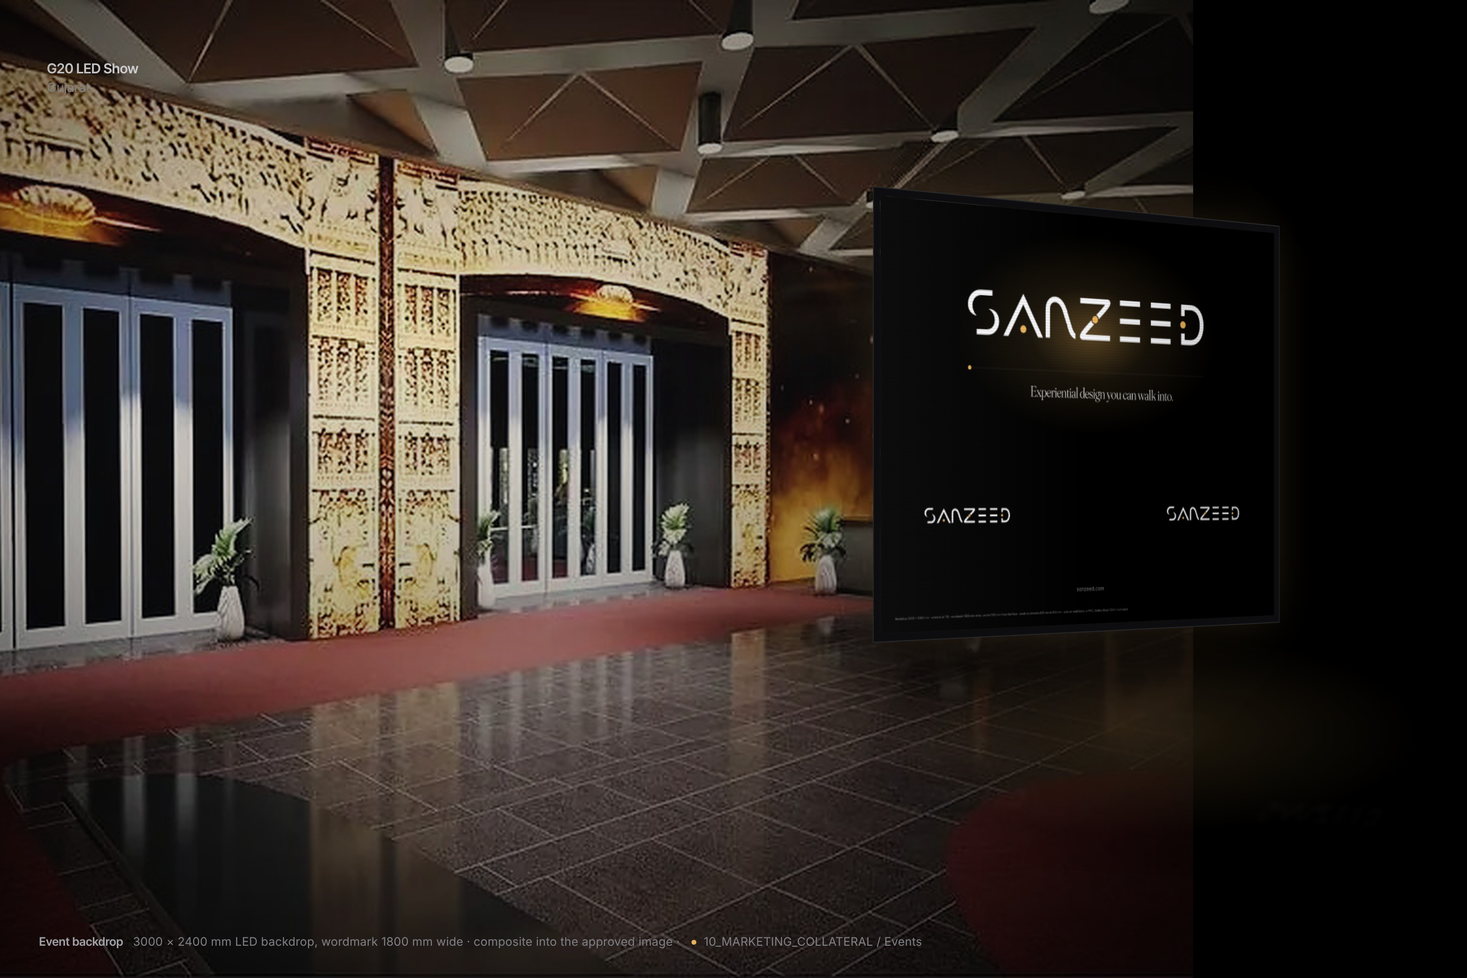
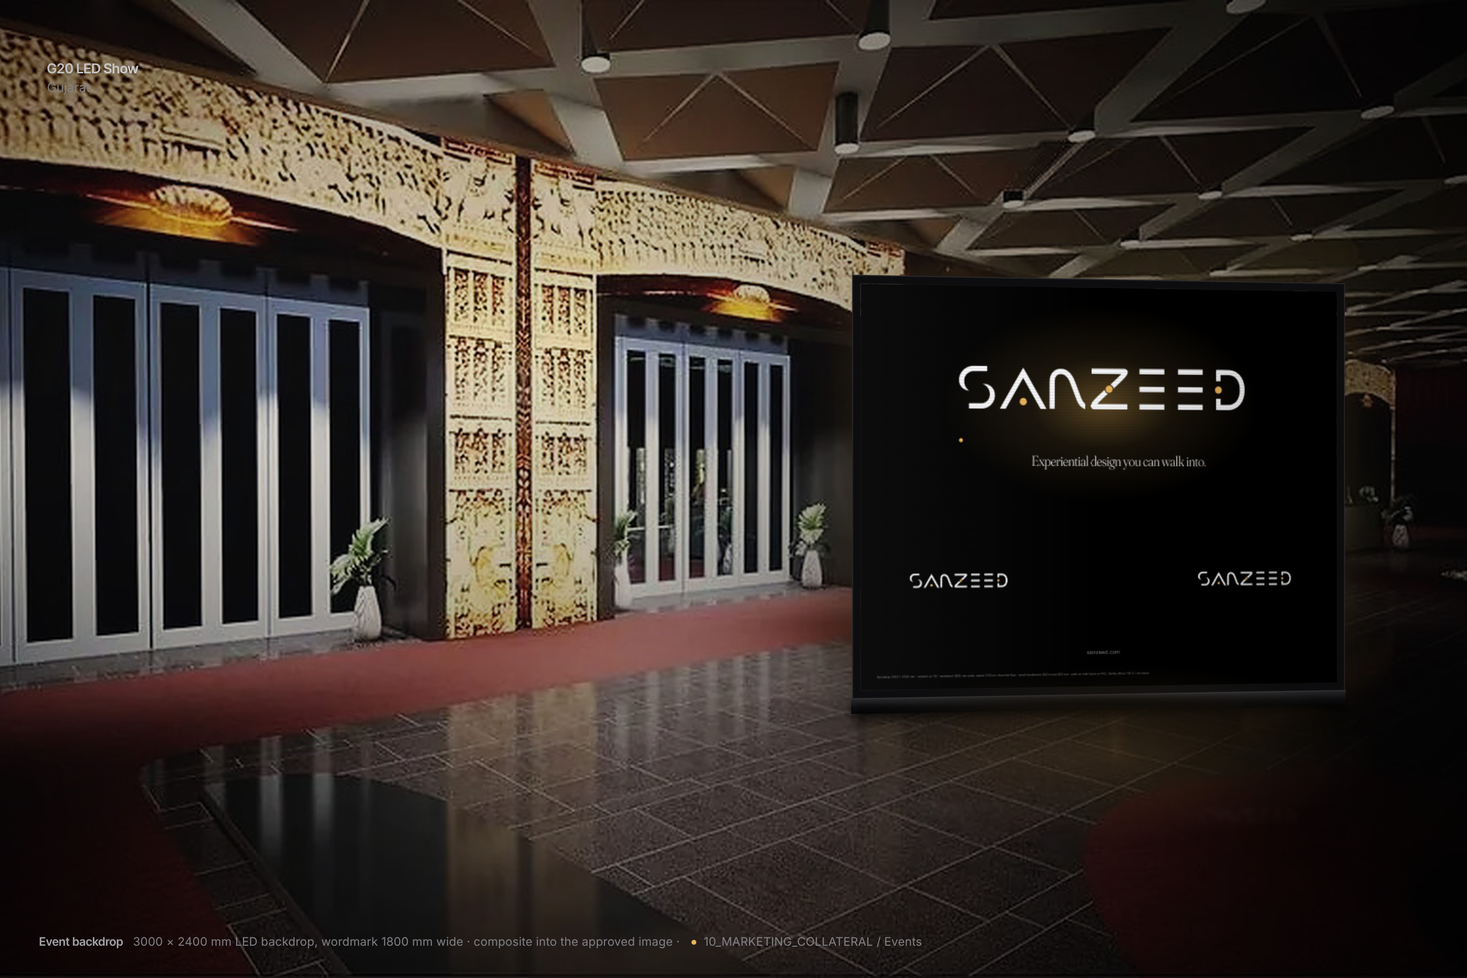
fix(mockups): photo composites fill the stage edge to edge; event backdrop re-staged
Claude-Session: https://claude.ai/code/session_017SHVVgUNEuw9kFNaSfonh1

diff --git a/BRAND_PACKAGE/13_BRAND_MOCKUPS/Marketing_Mockups/src/sanzeed-mockup--marketing-backdrop-g20-show.html b/BRAND_PACKAGE/13_BRAND_MOCKUPS/Marketing_Mockups/src/sanzeed-mockup--marketing-backdrop-g20-show.html
@@ -21,6 +21,8 @@
 .led::after { content: ""; position: absolute; inset: 0; background: repeating-linear-gradient(0deg, rgba(0,0,0,.08) 0 1px, transparent 1px 3px), linear-gradient(90deg, rgba(255,255,255,.05), rgba(0,0,0,0) 50%, rgba(0,0,0,.2)); }
 .ledframe { inset: -8px; border: 8px solid #0d0d0f; box-shadow: 0 0 0 1px #2a2a2d; }
 .glow { background: radial-gradient(50% 50% at 50% 50%, rgba(233,178,90,.14), transparent 70%); }
+.ground { background: radial-gradient(50% 50% at 50% 50%, rgba(0,0,0,.92), transparent 74%); filter: blur(4px); }
+.plinth { left: -10px; right: -10px; bottom: -24px; height: 16px; background: linear-gradient(180deg, #2a2a2d, #0d0d0f 60%, #050506); box-shadow: 0 1px 0 rgba(255,255,255,.06) inset, 0 6px 10px rgba(0,0,0,.7); }
 .label { left: 48px; top: 60px; font: 400 13px/1.5 var(--font-text); color: #A1A1A6; }
 .label b { display: block; font: 600 14px/1.4 var(--font-heading); color: #F5F5F7; }
 </style>
@@ -28,16 +30,18 @@
 <body>
 <div class="stage">
 <div class="abs" style="inset:0;background:#000"></div>
-<img class="abs" src="../../_build/plates/photo-g20-led-show.jpg" alt="G20 LED Show hall" style="left:-280px;top:0;width:1780px;height:1000px;object-fit:cover">
+<img class="abs" src="../../_build/plates/photo-g20-led-show.jpg" alt="G20 LED Show hall" style="left:-280px;top:0;width:1780px;height:1000px;max-width:none;object-fit:cover">
 <div class="abs" style="inset:0;background:linear-gradient(90deg,rgba(0,0,0,.1) 40%,rgba(0,0,0,.55) 100%),linear-gradient(180deg,rgba(0,0,0,.3),rgba(0,0,0,0) 35%,rgba(0,0,0,.5) 100%)"></div>
 <div class="abs persp" style="inset:0;perspective:1800px;perspective-origin:45% 50%">
-  <div class="abs p3d wallwrap" style="left:900px;top:200px;width:560px;height:448px;transform:rotateY(28deg)">
+  <div class="abs p3d wallwrap" style="left:880px;top:290px;width:520px;height:416px;transform:rotateY(8deg)">
     <div class="abs led" style="inset:0;background-image:url(../../../10_MARKETING_COLLATERAL/Events/sanzeed-event-backdrop--3000x2400mm-1-10.png)"></div>
     <div class="abs ledframe"></div>
+    <div class="abs plinth"></div>
   </div>
 </div>
-<div class="abs refl" style="left:860px;top:690px;width:620px;height:260px;background:url(../../../10_MARKETING_COLLATERAL/Events/sanzeed-event-backdrop--3000x2400mm-1-10.png) center bottom / 100% auto no-repeat;transform:scaleY(-1) skewX(24deg) rotate(-3deg);opacity:.16;filter:blur(3px);-webkit-mask-image:linear-gradient(0deg,rgba(0,0,0,.9),transparent 80%);mask-image:linear-gradient(0deg,rgba(0,0,0,.9),transparent 80%)"></div>
-<div class="abs glow" style="left:780px;top:600px;width:800px;height:300px"></div>
+<div class="abs ground" style="left:850px;top:704px;width:560px;height:30px"></div>
+<div class="abs refl" style="left:876px;top:724px;width:500px;height:190px;background:url(../../../10_MARKETING_COLLATERAL/Events/sanzeed-event-backdrop--3000x2400mm-1-10.png) center bottom / 100% auto no-repeat;transform:scaleY(-1) skewY(-1.2deg);opacity:.24;filter:blur(3px);-webkit-mask-image:linear-gradient(0deg,rgba(0,0,0,.9),transparent 80%);mask-image:linear-gradient(0deg,rgba(0,0,0,.9),transparent 80%)"></div>
+<div class="abs glow" style="left:740px;top:640px;width:800px;height:260px"></div>
 <div class="abs label"><b>G20 LED Show</b><span>Gujarat</span></div>
 <div class="abs vig soft"></div>
 <div class="cap"><b>Event backdrop</b>3000 × 2400 mm LED backdrop, wordmark 1800 mm wide · composite into the approved image · <span class="pt"></span>10_MARKETING_COLLATERAL / Events</div>

diff --git a/BRAND_PACKAGE/13_BRAND_MOCKUPS/Marketing_Mockups/src/sanzeed-mockup--marketing-door-plate-wayfinding-museum-wall.html b/BRAND_PACKAGE/13_BRAND_MOCKUPS/Marketing_Mockups/src/sanzeed-mockup--marketing-door-plate-wayfinding-museum-wall.html
@@ -27,7 +27,7 @@
 <body>
 <div class="stage">
 <div class="abs" style="inset:0;background:#000"></div>
-<img class="abs" src="../../_build/plates/photo-prime-minister-museum-corridor.jpg" alt="Prime Minister Museum corridor" style="left:-120px;top:0;width:1780px;height:1000px;object-fit:cover">
+<img class="abs" src="../../_build/plates/photo-prime-minister-museum-corridor.jpg" alt="Prime Minister Museum corridor" style="left:-258px;top:0;width:1780px;height:1000px;max-width:none;object-fit:cover">
 <div class="abs" style="inset:0;background:linear-gradient(90deg,rgba(0,0,0,.6) 0%,rgba(0,0,0,.25) 45%,rgba(0,0,0,.05) 100%),linear-gradient(180deg,rgba(0,0,0,.25),rgba(0,0,0,0) 30%,rgba(0,0,0,.45) 100%)"></div>
 <div class="abs persp" style="inset:0;perspective:1500px;perspective-origin:62% 50%">
   <div class="abs p3d wall" style="left:-80px;top:-300px;width:760px;height:1600px;transform:rotateY(46deg)">

diff --git a/BRAND_PACKAGE/13_BRAND_MOCKUPS/Marketing_Mockups/src/sanzeed-mockup--marketing-totem-lobby.html b/BRAND_PACKAGE/13_BRAND_MOCKUPS/Marketing_Mockups/src/sanzeed-mockup--marketing-totem-lobby.html
@@ -27,7 +27,7 @@
 <body>
 <div class="stage">
 <div class="abs" style="inset:0;background:#000"></div>
-<img class="abs" src="../../_build/plates/photo-prime-minister-museum-lobby.jpg" alt="Prime Minister Museum lobby" style="left:-140px;top:0;width:1780px;height:1000px;object-fit:cover">
+<img class="abs" src="../../_build/plates/photo-prime-minister-museum-lobby.jpg" alt="Prime Minister Museum lobby" style="left:-278px;top:0;width:1780px;height:1000px;max-width:none;object-fit:cover">
 <div class="abs" style="inset:0;background:linear-gradient(180deg,rgba(0,0,0,.35),rgba(0,0,0,.1) 40%,rgba(0,0,0,.5) 100%),radial-gradient(40% 60% at 68% 60%,rgba(0,0,0,.45),transparent 70%)"></div>
 <div class="abs persp" style="inset:0;perspective:2000px;perspective-origin:50% 45%">
   <div class="abs p3d totemwrap" style="left:880px;top:200px;width:246px;height:738px;transform:rotateY(-16deg)">

diff --git a/BRAND_PACKAGE/13_BRAND_MOCKUPS/Logo_Mockups/src/sanzeed-mockup--logo-frosted-glass-door.html b/BRAND_PACKAGE/13_BRAND_MOCKUPS/Logo_Mockups/src/sanzeed-mockup--logo-frosted-glass-door.html
@@ -31,7 +31,7 @@
 <body>
 <div class="stage">
 <div class="abs" style="inset:0;background:#0a0a0b"></div>
-<img class="abs" src="../../_build/plates/photo-prime-minister-museum-lobby.jpg" alt="" style="left:-140px;top:-40px;width:1780px;filter:blur(9px) brightness(.55) saturate(.8)">
+<img class="abs" src="../../_build/plates/photo-prime-minister-museum-lobby.jpg" alt="" style="left:-140px;top:-40px;width:1780px;max-width:none;filter:blur(9px) brightness(.55) saturate(.8)">
 <div class="abs" style="inset:0;background:linear-gradient(180deg,rgba(0,0,0,.35),rgba(0,0,0,.1) 40%,rgba(0,0,0,.55))"></div>
 <div class="abs frame" style="left:170px;top:-20px;width:1160px;height:1040px"></div>
 <div class="abs glass" style="left:200px;top:0;width:548px;height:1000px"></div>

diff --git a/BRAND_PACKAGE/13_BRAND_MOCKUPS/_build/build_mockups.py b/BRAND_PACKAGE/13_BRAND_MOCKUPS/_build/build_mockups.py
@@ -269,7 +269,7 @@ scene('logo-brass-plaque-symbol', L, 'Engraved brass plaque · the symbol', ['02
 # 05 — frosted glass door with the window vinyl
 scene('logo-frosted-glass-door', L, 'Window vinyl · wordmark on a frosted glass door', ['02 primary-wordmark--white.svg (cut vinyl)', '10 Signage window-vinyl spec (600 mm band, 1200 mm wordmark)', '00/06 Prime Minister Museum lobby (behind the glass)'], f'''
 <div class="abs" style="inset:0;background:#0a0a0b"></div>
-<img class="abs" src="{P}/photo-prime-minister-museum-lobby.jpg" alt="" style="left:-140px;top:-40px;width:1780px;filter:blur(9px) brightness(.55) saturate(.8)">
+<img class="abs" src="{P}/photo-prime-minister-museum-lobby.jpg" alt="" style="left:-140px;top:-40px;width:1780px;max-width:none;filter:blur(9px) brightness(.55) saturate(.8)">
 <div class="abs" style="inset:0;background:linear-gradient(180deg,rgba(0,0,0,.35),rgba(0,0,0,.1) 40%,rgba(0,0,0,.55))"></div>
 <div class="abs frame" style="left:170px;top:-20px;width:1160px;height:1040px"></div>
 <div class="abs glass" style="left:200px;top:0;width:548px;height:1000px"></div>
@@ -857,7 +857,7 @@ SCENES[-1]['body'] = SCENES[-1]['body'].replace(f'{P}/sanzeed-exhibition-rollup-
 # 29 — door plate + wayfinding on a museum wall (composite)
 scene('marketing-door-plate-wayfinding-museum-wall', M, 'Signage · door plate and wayfinding on a museum wall', ['10 Signage door plate 300 × 100 + arrow plate (trim crop)', '06 Prime Minister Museum corridor (approved image)'], f'''
 <div class="abs" style="inset:0;background:#000"></div>
-<img class="abs" src="{P}/photo-prime-minister-museum-corridor.jpg" alt="Prime Minister Museum corridor" style="left:-120px;top:0;width:1780px;height:1000px;object-fit:cover">
+<img class="abs" src="{P}/photo-prime-minister-museum-corridor.jpg" alt="Prime Minister Museum corridor" style="left:-258px;top:0;width:1780px;height:1000px;max-width:none;object-fit:cover">
 <div class="abs" style="inset:0;background:linear-gradient(90deg,rgba(0,0,0,.6) 0%,rgba(0,0,0,.25) 45%,rgba(0,0,0,.05) 100%),linear-gradient(180deg,rgba(0,0,0,.25),rgba(0,0,0,0) 30%,rgba(0,0,0,.45) 100%)"></div>
 <div class="abs persp" style="inset:0;perspective:1500px;perspective-origin:62% 50%">
   <div class="abs p3d wall" style="left:-80px;top:-300px;width:760px;height:1600px;transform:rotateY(46deg)">
@@ -881,7 +881,7 @@ scene('marketing-door-plate-wayfinding-museum-wall', M, 'Signage · door plate a
 # 30 — totem in a lobby (composite)
 scene('marketing-totem-lobby', M, 'Signage · totem in a museum lobby', ['10 Signage totem 600 × 1800 mm (1:10)', '00/06 Prime Minister Museum lobby (case image)'], f'''
 <div class="abs" style="inset:0;background:#000"></div>
-<img class="abs" src="{P}/photo-prime-minister-museum-lobby.jpg" alt="Prime Minister Museum lobby" style="left:-140px;top:0;width:1780px;height:1000px;object-fit:cover">
+<img class="abs" src="{P}/photo-prime-minister-museum-lobby.jpg" alt="Prime Minister Museum lobby" style="left:-278px;top:0;width:1780px;height:1000px;max-width:none;object-fit:cover">
 <div class="abs" style="inset:0;background:linear-gradient(180deg,rgba(0,0,0,.35),rgba(0,0,0,.1) 40%,rgba(0,0,0,.5) 100%),radial-gradient(40% 60% at 68% 60%,rgba(0,0,0,.45),transparent 70%)"></div>
 <div class="abs persp" style="inset:0;perspective:2000px;perspective-origin:50% 45%">
   <div class="abs p3d totemwrap" style="left:880px;top:200px;width:246px;height:738px;transform:rotateY(-16deg)">
@@ -906,16 +906,18 @@ scene('marketing-totem-lobby', M, 'Signage · totem in a museum lobby', ['10 Sig
 # 31 — backdrop at the G20-style show (composite)
 scene('marketing-backdrop-g20-show', M, 'Event backdrop · LED wall at the G20-style show', ['10 Events backdrop 3000 × 2400 mm (1:10)', '06 G20 LED Show (approved image)'], f'''
 <div class="abs" style="inset:0;background:#000"></div>
-<img class="abs" src="{P}/photo-g20-led-show.jpg" alt="G20 LED Show hall" style="left:-280px;top:0;width:1780px;height:1000px;object-fit:cover">
+<img class="abs" src="{P}/photo-g20-led-show.jpg" alt="G20 LED Show hall" style="left:-280px;top:0;width:1780px;height:1000px;max-width:none;object-fit:cover">
 <div class="abs" style="inset:0;background:linear-gradient(90deg,rgba(0,0,0,.1) 40%,rgba(0,0,0,.55) 100%),linear-gradient(180deg,rgba(0,0,0,.3),rgba(0,0,0,0) 35%,rgba(0,0,0,.5) 100%)"></div>
 <div class="abs persp" style="inset:0;perspective:1800px;perspective-origin:45% 50%">
-  <div class="abs p3d wallwrap" style="left:900px;top:200px;width:560px;height:448px;transform:rotateY(28deg)">
+  <div class="abs p3d wallwrap" style="left:880px;top:290px;width:520px;height:416px;transform:rotateY(8deg)">
     <div class="abs led" style="inset:0;background-image:url({MKT}/Events/sanzeed-event-backdrop--3000x2400mm-1-10.png)"></div>
     <div class="abs ledframe"></div>
+    <div class="abs plinth"></div>
   </div>
 </div>
-<div class="abs refl" style="left:860px;top:690px;width:620px;height:260px;background:url({MKT}/Events/sanzeed-event-backdrop--3000x2400mm-1-10.png) center bottom / 100% auto no-repeat;transform:scaleY(-1) skewX(24deg) rotate(-3deg);opacity:.16;filter:blur(3px);-webkit-mask-image:linear-gradient(0deg,rgba(0,0,0,.9),transparent 80%);mask-image:linear-gradient(0deg,rgba(0,0,0,.9),transparent 80%)"></div>
-<div class="abs glow" style="left:780px;top:600px;width:800px;height:300px"></div>
+<div class="abs ground" style="left:850px;top:704px;width:560px;height:30px"></div>
+<div class="abs refl" style="left:876px;top:724px;width:500px;height:190px;background:url({MKT}/Events/sanzeed-event-backdrop--3000x2400mm-1-10.png) center bottom / 100% auto no-repeat;transform:scaleY(-1) skewY(-1.2deg);opacity:.24;filter:blur(3px);-webkit-mask-image:linear-gradient(0deg,rgba(0,0,0,.9),transparent 80%);mask-image:linear-gradient(0deg,rgba(0,0,0,.9),transparent 80%)"></div>
+<div class="abs glow" style="left:740px;top:640px;width:800px;height:260px"></div>
 <div class="abs label"><b>G20 LED Show</b><span>Gujarat</span></div>
 <div class="abs vig soft"></div>
 {cap('Event backdrop', '3000 × 2400 mm LED backdrop, wordmark 1800 mm wide · composite into the approved image · <span class="pt"></span>10_MARKETING_COLLATERAL / Events')}
@@ -925,6 +927,8 @@ scene('marketing-backdrop-g20-show', M, 'Event backdrop · LED wall at the G20-s
 .led::after { content: ""; position: absolute; inset: 0; background: repeating-linear-gradient(0deg, rgba(0,0,0,.08) 0 1px, transparent 1px 3px), linear-gradient(90deg, rgba(255,255,255,.05), rgba(0,0,0,0) 50%, rgba(0,0,0,.2)); }
 .ledframe { inset: -8px; border: 8px solid #0d0d0f; box-shadow: 0 0 0 1px #2a2a2d; }
 .glow { background: radial-gradient(50% 50% at 50% 50%, rgba(233,178,90,.14), transparent 70%); }
+.ground { background: radial-gradient(50% 50% at 50% 50%, rgba(0,0,0,.92), transparent 74%); filter: blur(4px); }
+.plinth { left: -10px; right: -10px; bottom: -24px; height: 16px; background: linear-gradient(180deg, #2a2a2d, #0d0d0f 60%, #050506); box-shadow: 0 1px 0 rgba(255,255,255,.06) inset, 0 6px 10px rgba(0,0,0,.7); }
 .label { left: 48px; top: 60px; font: 400 13px/1.5 var(--font-text); color: #A1A1A6; }
 .label b { display: block; font: 600 14px/1.4 var(--font-heading); color: #F5F5F7; }
 ''')
@@ -1200,9 +1204,10 @@ no invented statistics (the Instagram and YouTube mock profiles show no follower
   upscaled 1.9–3.1× and are deliberately softened under the veil; for press use, re-run `make_plates.py` with higher-resolution originals.
 * The scenes are rendered raster scenes, not layered PSD/Figma mockup files; the HTML sources are the layered, editable equivalent
   (every object is a positioned element with its own transform and shadow).
-* `brand.css` sets `img {{ max-width: 100% }}`, so the 1780 px photographs in the door-plate, totem and event-backdrop composites are
-  capped at the 1500 px stage and stop short of the right edge (a dark band there). This predates the logo swap and was left as is;
-  adding `max-width:none` to those `<img>` styles would restore the intended framing (re-check the sign perspective afterwards).
+* `brand.css` sets `img {{ max-width: 100% }}`; the full-bleed photographs (door plate, totem, event backdrop, frosted-door lobby) carry
+  `max-width:none` so they cover the stage edge to edge. Door plate and totem keep their earlier photo registration (offset by the
+  138 px the old capped `object-fit: cover` cropped), so their signs sit exactly as tuned; the event backdrop was re-staged as a
+  near-frontal (8°) freestanding LED wall on a plinth, standing on the hall floor, with a contact shadow and floor reflection.
 * Chromium paints very large CSS background images from a low-resolution decode, so plates are kept ≤ 3400 px on the long edge
   (the A2 poster plate is 1600 px wide, 1.5× what the scene shows).
 """

diff --git a/BRAND_PACKAGE/13_BRAND_MOCKUPS/README.md b/BRAND_PACKAGE/13_BRAND_MOCKUPS/README.md
@@ -23,7 +23,7 @@ symbol 603.82 × 519.33 (≈ 1.16 : 1).
 | `sanzeed-mockups-contact-sheet.png` | all 35 scenes on one 3000 px sheet, numbered 001–035 |
 | `_build/` | `build_mockups.py` (the master), `mockup.css` (shared devices, surfaces, textures, shadows), `make_plates.py` + `plates/` (the deliverables re-rasterised at mockup resolution), `capture_site.js`, `contact-sheet.html` |
 
-Each scene: **editable HTML + CSS source** in the folder's `src/` (1500 × 1000 CSS px, all brand tokens via `brand.css`), a **3000 × 2000 JPG q90** (`-3000w.jpg`) and a **1600 × 1067 web JPG** (`-1600w.jpg`). Folder total: **43 MB**.
+Each scene: **editable HTML + CSS source** in the folder's `src/` (1500 × 1000 CSS px, all brand tokens via `brand.css`), a **3000 × 2000 JPG q90** (`-3000w.jpg`) and a **1600 × 1067 web JPG** (`-1600w.jpg`). Folder total: **44 MB**.
 
 ## How the scenes are made
 
@@ -69,7 +69,7 @@ no invented statistics (the Instagram and YouTube mock profiles show no follower
 | 002 | Gold foil · wordmark hot-stamped on black stock | 02 primary-wordmark--black.svg (as the foil mask); 03 foil gradient; 05 grain | `Logo_Mockups/src/sanzeed-mockup--logo-gold-foil-black.html` | `Logo_Mockups/sanzeed-mockup--logo-gold-foil-black-3000w.jpg` (1.0 MB) · `…-1600w.jpg` (166 KB) |
 | 003 | Halo-lit signage · fabricated letters on a dark wall | 02 primary-wordmark--full-colour-dark.svg; 05 lamp glow + grain | `Logo_Mockups/src/sanzeed-mockup--logo-backlit-signage-night.html` | `Logo_Mockups/sanzeed-mockup--logo-backlit-signage-night-3000w.jpg` (1.1 MB) · `…-1600w.jpg` (236 KB) |
 | 004 | Engraved brass plaque · the symbol | 02 symbol--black.svg (as the engraving mask) | `Logo_Mockups/src/sanzeed-mockup--logo-brass-plaque-symbol.html` | `Logo_Mockups/sanzeed-mockup--logo-brass-plaque-symbol-3000w.jpg` (1.2 MB) · `…-1600w.jpg` (260 KB) |
-| 005 | Window vinyl · wordmark on a frosted glass door | 02 primary-wordmark--white.svg (cut vinyl); 10 Signage window-vinyl spec (600 mm band, 1200 mm wordmark); 00/06 Prime Minister Museum lobby (behind the glass) | `Logo_Mockups/src/sanzeed-mockup--logo-frosted-glass-door.html` | `Logo_Mockups/sanzeed-mockup--logo-frosted-glass-door-3000w.jpg` (207 KB) · `…-1600w.jpg` (64 KB) |
+| 005 | Window vinyl · wordmark on a frosted glass door | 02 primary-wordmark--white.svg (cut vinyl); 10 Signage window-vinyl spec (600 mm band, 1200 mm wordmark); 00/06 Prime Minister Museum lobby (behind the glass) | `Logo_Mockups/src/sanzeed-mockup--logo-frosted-glass-door.html` | `Logo_Mockups/sanzeed-mockup--logo-frosted-glass-door-3000w.jpg` (218 KB) · `…-1600w.jpg` (68 KB) |
 | 006 | App icon · the symbol tile on a phone home screen | 07 App_Icons/iOS/ios-icon-1024.png; 05 Backgrounds lamp 1080×1920 (wallpaper) | `Logo_Mockups/src/sanzeed-mockup--logo-app-icon-phone.html` | `Logo_Mockups/sanzeed-mockup--logo-app-icon-phone-3000w.jpg` (635 KB) · `…-1600w.jpg` (133 KB) |
 | 007 | Favicon · the symbol tile in a browser tab strip | 02 Favicon/favicon-32.png; 16 site capture (dark) | `Logo_Mockups/src/sanzeed-mockup--logo-favicon-browser-tab.html` | `Logo_Mockups/sanzeed-mockup--logo-favicon-browser-tab-3000w.jpg` (578 KB) · `…-1600w.jpg` (155 KB) |
 | 008 | Business cards · fanned on a dark surface | 09 Business_Cards concept A + B (PDF, 600 dpi); 05 lamp glow, grain | `Stationery_Mockups/src/sanzeed-mockup--stationery-cards-fanned-dark.html` | `Stationery_Mockups/sanzeed-mockup--stationery-cards-fanned-dark-3000w.jpg` (720 KB) · `…-1600w.jpg` (148 KB) |
@@ -93,9 +93,9 @@ no invented statistics (the Instagram and YouTube mock profiles show no follower
 | 026 | Poster · A2 campaign poster on a gallery wall | 10 Posters campaign A2 (trim crop) | `Marketing_Mockups/src/sanzeed-mockup--marketing-poster-a2-gallery-wall.html` | `Marketing_Mockups/sanzeed-mockup--marketing-poster-a2-gallery-wall-3000w.jpg` (254 KB) · `…-1600w.jpg` (75 KB) |
 | 027 | Brochure · A4 trifold standing, inside spread behind | 10 Brochures A4 trifold outside + inside (panels, trim crop) | `Marketing_Mockups/src/sanzeed-mockup--marketing-trifold-brochure-standing.html` | `Marketing_Mockups/sanzeed-mockup--marketing-trifold-brochure-standing-3000w.jpg` (401 KB) · `…-1600w.jpg` (107 KB) |
 | 028 | Roll-up banner · at an event entrance | 10 Events exhibition roll-up 850 × 2000 mm (1:5) | `Marketing_Mockups/src/sanzeed-mockup--marketing-rollup-banner-entrance.html` | `Marketing_Mockups/sanzeed-mockup--marketing-rollup-banner-entrance-3000w.jpg` (600 KB) · `…-1600w.jpg` (130 KB) |
-| 029 | Signage · door plate and wayfinding on a museum wall | 10 Signage door plate 300 × 100 + arrow plate (trim crop); 06 Prime Minister Museum corridor (approved image) | `Marketing_Mockups/src/sanzeed-mockup--marketing-door-plate-wayfinding-museum-wall.html` | `Marketing_Mockups/sanzeed-mockup--marketing-door-plate-wayfinding-museum-wall-3000w.jpg` (573 KB) · `…-1600w.jpg` (177 KB) |
-| 030 | Signage · totem in a museum lobby | 10 Signage totem 600 × 1800 mm (1:10); 00/06 Prime Minister Museum lobby (case image) | `Marketing_Mockups/src/sanzeed-mockup--marketing-totem-lobby.html` | `Marketing_Mockups/sanzeed-mockup--marketing-totem-lobby-3000w.jpg` (574 KB) · `…-1600w.jpg` (177 KB) |
-| 031 | Event backdrop · LED wall at the G20-style show | 10 Events backdrop 3000 × 2400 mm (1:10); 06 G20 LED Show (approved image) | `Marketing_Mockups/src/sanzeed-mockup--marketing-backdrop-g20-show.html` | `Marketing_Mockups/sanzeed-mockup--marketing-backdrop-g20-show-3000w.jpg` (680 KB) · `…-1600w.jpg` (215 KB) |
+| 029 | Signage · door plate and wayfinding on a museum wall | 10 Signage door plate 300 × 100 + arrow plate (trim crop); 06 Prime Minister Museum corridor (approved image) | `Marketing_Mockups/src/sanzeed-mockup--marketing-door-plate-wayfinding-museum-wall.html` | `Marketing_Mockups/sanzeed-mockup--marketing-door-plate-wayfinding-museum-wall-3000w.jpg` (607 KB) · `…-1600w.jpg` (187 KB) |
+| 030 | Signage · totem in a museum lobby | 10 Signage totem 600 × 1800 mm (1:10); 00/06 Prime Minister Museum lobby (case image) | `Marketing_Mockups/src/sanzeed-mockup--marketing-totem-lobby.html` | `Marketing_Mockups/sanzeed-mockup--marketing-totem-lobby-3000w.jpg` (639 KB) · `…-1600w.jpg` (194 KB) |
+| 031 | Event backdrop · LED wall at the G20-style show | 10 Events backdrop 3000 × 2400 mm (1:10); 06 G20 LED Show (approved image) | `Marketing_Mockups/src/sanzeed-mockup--marketing-backdrop-g20-show.html` | `Marketing_Mockups/sanzeed-mockup--marketing-backdrop-g20-show-3000w.jpg` (710 KB) · `…-1600w.jpg` (225 KB) |
 | 032 | Flyer · A5 flyer in a stylised hand | 10 Flyers A5 two-sided front (trim crop) | `Marketing_Mockups/src/sanzeed-mockup--marketing-flyer-in-hand.html` | `Marketing_Mockups/sanzeed-mockup--marketing-flyer-in-hand-3000w.jpg` (735 KB) · `…-1600w.jpg` (149 KB) |
 | 033 | Social ad · 1080 × 1080 ad in a feed, on a phone | 10 Campaign_Templates ad 1080 × 1080 @ 2×; 08 Instagram profile 1024 (dark) | `Marketing_Mockups/src/sanzeed-mockup--marketing-social-ad-phone.html` | `Marketing_Mockups/sanzeed-mockup--marketing-social-ad-phone-3000w.jpg` (700 KB) · `…-1600w.jpg` (146 KB) |
 | 034 | Lower third · over the Ram Katha Show, on a broadcast monitor | 11 Lower_Thirds name lower third (source, hold frame at 2.9 s, alpha); 00/06 Ram Katha Show stage (case image) | `Marketing_Mockups/src/sanzeed-mockup--marketing-lower-third-ram-katha.html` | `Marketing_Mockups/sanzeed-mockup--marketing-lower-third-ram-katha-3000w.jpg` (1.1 MB) · `…-1600w.jpg` (295 KB) |
@@ -107,8 +107,9 @@ no invented statistics (the Instagram and YouTube mock profiles show no follower
   upscaled 1.9–3.1× and are deliberately softened under the veil; for press use, re-run `make_plates.py` with higher-resolution originals.
 * The scenes are rendered raster scenes, not layered PSD/Figma mockup files; the HTML sources are the layered, editable equivalent
   (every object is a positioned element with its own transform and shadow).
-* `brand.css` sets `img { max-width: 100% }`, so the 1780 px photographs in the door-plate, totem and event-backdrop composites are
-  capped at the 1500 px stage and stop short of the right edge (a dark band there). This predates the logo swap and was left as is;
-  adding `max-width:none` to those `<img>` styles would restore the intended framing (re-check the sign perspective afterwards).
+* `brand.css` sets `img { max-width: 100% }`; the full-bleed photographs (door plate, totem, event backdrop, frosted-door lobby) carry
+  `max-width:none` so they cover the stage edge to edge. Door plate and totem keep their earlier photo registration (offset by the
+  138 px the old capped `object-fit: cover` cropped), so their signs sit exactly as tuned; the event backdrop was re-staged as a
+  near-frontal (8°) freestanding LED wall on a plinth, standing on the hall floor, with a contact shadow and floor reflection.
 * Chromium paints very large CSS background images from a low-resolution decode, so plates are kept ≤ 3400 px on the long edge
   (the A2 poster plate is 1600 px wide, 1.5× what the scene shows).
